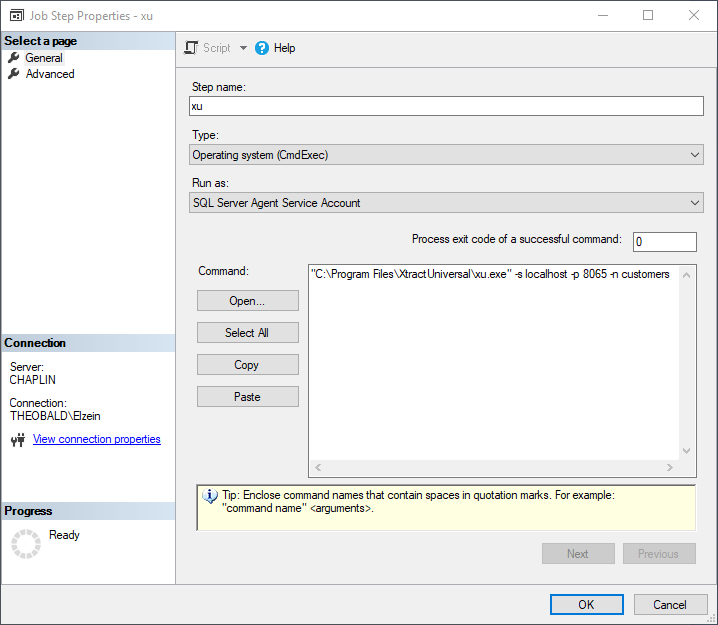
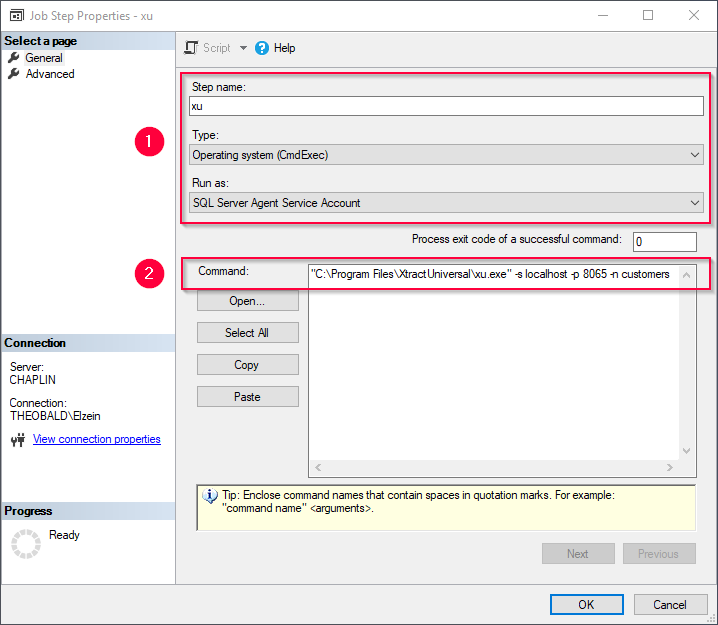
review automation branch sections

Changed region(s): [[0.1838, 0.0912, 1.0, 0.3648], [0.1838, 0.3952, 1.0, 0.4864]]

diff --git a/content/_de/xtract-universal/automation/call-via-scheduler.md b/content/_de/xtract-universal/automation/call-via-scheduler.md
@@ -9,54 +9,57 @@ permalink: /:collection/:path
 weight: 9
 lang: de_DE
 ---
+Der folgende Abschnitt zeigt die Verwendung des Konsolenprogramms *xu.exe* zum Einplanen von Extraktionen über Scheduler diverser Drittanbieter. 
+
+Examplarisch werden die Einrichtung für den Windows Task Scheduler als auch für den SQL Server Agent nachfolgend beschrieben.
 
 ### Aufruf via Windows Task Scheduler
 
-In diesem Abschnitt werde ich zeigen, wie man eine Xtract Universal Extraktion mit dem Windows Task Scheduler einplanen kann.
-Es ist so einfach wie der Aufruf des Kommandozeilenprogrammes mit den richtigen Parametern.
-
-- Öffnen Sie den Taskplaner unter Windows, z.B. indem Sie nach Taskplaner suchen.
-Alternativ können Sie den Taskplaner von der Kommandozeile aus starten, indem Sie Taskschd.msc eingeben.
-- Klicken Sie auf das Menü Action und dann auf Create Basic Task
-- Geben Sie einen Namen für die Aufgabe und eine optionale Beschreibung ein, und klicken Sie dann auf Weiter.
-- Wählen Sie die Option Täglich und klicken Sie dann auf Weiter.
-- Legen Sie Startdatum und -zeit fest und klicken Sie dann auf Weiter.
-- Wählen Sie die Option Ein Programm starten
-- Legen Sie als Programm/Skript den Pfad zum Xtract Universal Command Tool fest: 
-```
-"C:\Programmdateien\XtractUniversal\xu.exe"
-```
-Setzen Sie das Feld Add arguments (optional) auf:
-```
--s localhost -p 8065 -n SAPPlants
-```
-Klicken Sie auf Weiter.
-![xu-wts-command](/img/content/xu/automation/xu-command-task-scheduler.png){:class="img-responsive"}
-- Überprüfen Sie die Zusammenfassung und klicken Sie auf Fertigstellen.
-Jetzt wird der Task geplant. Sie können mit der rechten Maustaste auf den Task klicken und Ausführen wählen, um sie sofort auszuführen.
+1. Öffnen Sie den Windows Task Scheduler mittels *Taskschd.msc* von der Kommandozeile.
+![Open Scheduler](/img/content/xu/automation/open_scheduler.png){:class="img-responsive"}
+2. Erstellen eines neuen Tasks über **Actions > Create Task ...** (1).
+![Create Task](/img/content/xu/automation/create_task.png){:class="img-responsive"}
+3. Angabe eines Namens für den Task (2) und eine optionale Beschreibung über **Create Task > General**.
+![Create Task General](/img/content/xu/automation/create_task_general.png){:class="img-responsive"}
+4. Angabe einer Zeitoption über **Triggers > New... > Settings**.
+5. Legen Sie Startdatum und -zeit fest und bestätigen Sie die Eigabe mittels **[OK]** (3).
+![Create Task Trigger](/img/content/xu/automation/create_task_trigger.png){:class="img-responsive"}
+6. Angabe des Startprogramms **Program / script** sowie Parameter der Extraktion **Add arguments (optional)**, z.B. `"C:\Program Files\XtractUniversal\xu.exe" -s todd.theobald.local -p 8065 -n SAPPlants` (4).
+![Create Task Actions](/img/content/xu/automation/create_task_actions.png){:class="img-responsive"}
+7. Beatätigen Sie die Eingabe mittels **[OK]** (5).
+8. Überprüfen Sie die Zusammenfassung und klicken Sie auf Fertigstellen.
 ![xu-wts-command](/img/content/xu/automation/task_run.jpg){:class="img-responsive"}
-Wenn Sie möchten, dass der Task mehr als eine Extraktion ausführt, klicken Sie auf Bearbeiten und gehen Sie zur Registerkarte Aktionen und erstellen Sie neue Aktionen wie in Schritt 7 beschrieben.
-Der Task Scheduler bietet mehr Optionen. Weitere Optionen finden Sie unter Microsoft technet.
-http://technet.microsoft.com/en-us/library/cc721931.aspx
+
+{: .box-note }
+**Hinweis:** Die Extraktion ist jetzt eingeplant und kann auch mittels Rechtsklick **[Run]** sofort ausgeführt werden. 
+
+{: .box-tip }
+**Tip:** Es können einem Task mehrere Extraktionen zugeordnet werden. Klicken Sie auf Bearbeiten und gehen Sie zur Registerkarte Aktionen und erstellen Sie neue Aktionen wie oben beschrieben.
+
 
 ### Aufruf via SQL Server Agent
 
-In diesem Abschnitt zeigen wir, wie Sie eine Extraktion mit dem SQL Server Agent einplanen.
+{: .box-note }
+**Hinweis:** Notwendige Berechtigungen zur Erstellung und Ausführung eines Jobs mit dem SQL-Server-Agent müssen vorhanden sein.   
 
-Wir setzen voraus, dass Sie alle notwendigen Berechtigung zur Erstellung und Aufsführung eines Jobs mit dem SQL Server Agent besitzen und einen solchen Job unabhängig von Xtract Universal auch anlegen und ausführen können.  
-
-- Öffnen Sie das SQL Server Management Studio 
-- Stellen Sie im Objekt-Explorer eine Verbindung zu einer Instanz des SQL Server-Datenbankmoduls her, und erweitern Sie dann diese Instanz.
-- Erweitern Sie den SQL Server Agent, erstellen Sie einen neuen Job 
-- Klicken Sie im Dialogfeld Job properties auf die Seite Schritte und dann auf Neu.
-- Geben Sie im Dialogfeld Neuer Job-Step einen Job-Step-Namen ein.
-- Wählen Sie in der Liste Typ die Option CmdExec.
-- Wählen Sie in der Liste Ausführen als das Proxy-Konto mit den Anmeldedaten, das der Auftrag verwenden wird. Standardmäßig werden CmdExec-Job-Steps unter dem Kontext des SQL Server Agent-Dienstkontos ausgeführt.
-- Geben Sie im Feld Command den folgenden Befehl ein. ```
-"C:\Programmdateien\XtractUniversal\xu.exe" -s localhost -p 8065 -n Kunden
-``` ![xu-ssa-command](/img/content/xu/automation/xu_sql_server_agent_job_step.png){:class="img-responsive"}
-- Klicken Sie auf die Seite Erweitert, um Jobschrittoptionen festzulegen, z. B.: welche Aktion bei Erfolg oder Fehlschlag des Jobschritts ausgeführt werden soll, wie oft der SQL Server Agent versuchen soll, den Jobschritt auszuführen, und die Datei, in die der SQL Server Agent die Ausgabe des Jobschritts schreiben kann. 
-- Klicken Sie auf Ok.
-- Unter SQL Server Agent -> Jobs sollten Sie nun den definierten Job finden. 
-- Klicken Sie mit der rechten Maustaste auf den Job und wählen Sie Run Job at Step ..., um den Job auszuführen. 
+1. Öffnen Sie das SQL-Server-Management-Studio (SSMS), um sich mit einem SQL-Server zu verbinden.
+2. Erstellung eines neuen Jobs über **SQL Server Agent > New > Job...**. 
+![Create Job](/img/content/xu/automation/create_job.png){:class="img-responsive"}
+3. Klicken Sie im Job-Dialogfeld auf **Select a page > Steps > [New]**.
+![Create Step](/img/content/xu/automation/create_step.png){:class="img-responsive"}
+4. Angabe **Step name**, **Type**, **Run as** (1) sowie **Command** (2), <br> z.B. *xu*, *Operating system (CmdExec)*, *SQL-Server-Agent Service Account*, `"C:\Programmdateien\XtractUniversal\xu.exe" -s localhost -p 8065 -n customers`.
+![Create StepII](/img/content/xu/automation/xu_sql_server_agent_job_step.png){:class="img-responsive"}
+5. Klicken Sie auf die Seite **Select a page > Advanced**, um weitere Optionen festzulegen, z.B.
+	- **On success action**, **On failure action**
+	- **Retry attemps**, **Retry interval**
+	- **Output file**
+6. Bestätigen Sie die Eingabe mittels **[OK]**.
+7. Unter **SQL Server Agent > Jobs** sollten Sie nun den definierten Job finden. 
+8. Klicken Sie mit der rechten Maustaste auf den Job und wählen Sie **Start Job at Step...**, um den Job auszuführen. 
+9. Die erfolgreiche Ausführung erstellten SQL Server Agent Jobs wird im nachfolgenden Fenster in SSMS angezeigt.
 ![xu-ssa-start](/img/content/xu/automation/xu_sql_server_agent_job_start.png){:class="img-responsive"}
+
+****
+#### Weiterführende Links
+- [SQL Server Agent](https://docs.microsoft.com/en-us/sql/ssms/agent/sql-server-agent?view=sql-server-ver15)
+- [Start Task Scheduler](http://technet.microsoft.com/en-us/library/cc721931.aspx)

diff --git a/content/_de/xtract-universal/automation/call-via-etl.md b/content/_de/xtract-universal/automation/call-via-etl.md
@@ -9,31 +9,29 @@ permalink: /:collection/:path
 weight: 11
 lang: de_DE
 ---
+Bei allen ETL-Tools stehen grundsätzlich die folgenden Möglichkeiten für die Ausführung von Extraktionen zur Verfügung:
+- [Aufruf via Kommandozeile](./call-via-commandline) 
+- [Aufruf via Webservices](./call-via-webservice)
 
-Bei allen ETL-Tools hat man grundsätzlich zwei Möglichkeiten zur Ausführung einer Extraktion:
-- [Aufruf der Kommandozeile](./call-via-commandline) 
-- [Aufruf des Webservices](./call-via-webservice)
-
-
-### Integration mit Alteryx
-Für die Integration von Xtract Universam mit Alteryx [siehe Alteryx Destination](../xu-zielumgebungen/alteryx-de/)
-
-### Integration mit KNIME 
-Für die Integration von Xtract Universam mit KNIME bietet unser Partner KNIME ein Plug-In, siehe 
+### Integration mittels Plug-In
+- [Xtract Universal Alteryx Plugin](../xu-destinationen/alteryx-de/voraussetzungen-alteryx-de)
 - [KNIME SAP Integration based on Theobald Xtract Universal](https://hub.knime.com/knime/extensions/org.knime.features.sap.theobald/latest) und
-- [SAP Reader (Theobald)](https://hub.knime.com/knime/extensions/org.knime.features.sap.theobald/latest/org.knime.sap.theobald.node.SAPTheobaldReaderNodeFactory). 
+- [SAP Reader (Theobald)](https://hub.knime.com/knime/extensions/org.knime.features.sap.theobald/latest/org.knime.sap.theobald.node.SAPTheobaldReaderNodeFactory)
+- [Xtract Universal Power BI Custom Connector](../xu-destinationen/Power-BI-Connector)
+- [Power BI Configure scheduled refresh](https://docs.microsoft.com/en-us/power-bi/connect-data/refresh-scheduled-refresh)
 
-### Integration mit Talend via Webservice
-Für den Aufruf eines Webservices in Talend siehe [Talend Integration via HTTP](https://kb.theobald-software.com/xtract-universal/talend-integration-http).
+### Integration mittels Webservice
+- [Talend Integration via HTTP](https://kb.theobald-software.com/xtract-universal/talend-integration-http)
+- [Pentaho Integration via HTTP](https://kb.theobald-software.com/xtract-universal/pentaho-di-http)
+- [GCS Integration with Google Scheduler](https://cloud.google.com/scheduler/docs/creating)
+- [Schedule AWS Lambda Functions](https://docs.aws.amazon.com/AmazonCloudWatch/latest/events/RunLambdaSchedule.html)
 
-### Integration mit Pentaho via Kommandozeile 
-Für den Aufruf der Kommandozeile in Pentaho [Pentaho Integration via the Command Line](https://kb.theobald-software.com/xtract-universal/pentaho-di-cmd).
+### Integration mittels Kommandozeile
+- [Pentaho Integration](https://kb.theobald-software.com/xtract-universal/pentaho-di-cmd).
+- [Azure Data Factory (ADF) Integration](https://kb.theobald-software.com/xtract-universal/automation-of-xu-data-extracts-with-adf)
 
-### Integration mit Pentaho via Webservice
-Für den Aufruf eines Webservices in Pentaho siehe [Pentaho Integration via HTTP](https://kb.theobald-software.com/xtract-universal/pentaho-di-http).
 
-<!---
-ADF
-Google 
-AWS Lambda
--->
+
+
+
+

diff --git a/content/_de/xtract-universal/automation/call-extraction.md b/content/_de/xtract-universal/automation/call-extraction.md
@@ -10,7 +10,9 @@ weight: 1
 lang: de_DE
 ---
 Xtract Universal ist entsprechend einer [Client-Server-Architektur](../einfuehrung) aufgebaut. 
+
 Die Ausführung einer Extraktion findet auf dem [XU Server](../server#extraktion-auf-dem-server-ausführen) statt. Xtract Universal bietet zwei Möglichkeiten, um eine angelegte Extraktion auszuführen:
+
 - Aufruf über das mitgelieferte [Kommandozeilen-Tool](../automation/call-via-commandline), das in einer Windows- und einer Linux-Version (xu.exe bzw. xu.elf) angeboten wird  
 - Aufruf via [Webservice-Call](../automation/call-via-webservice) 
 
